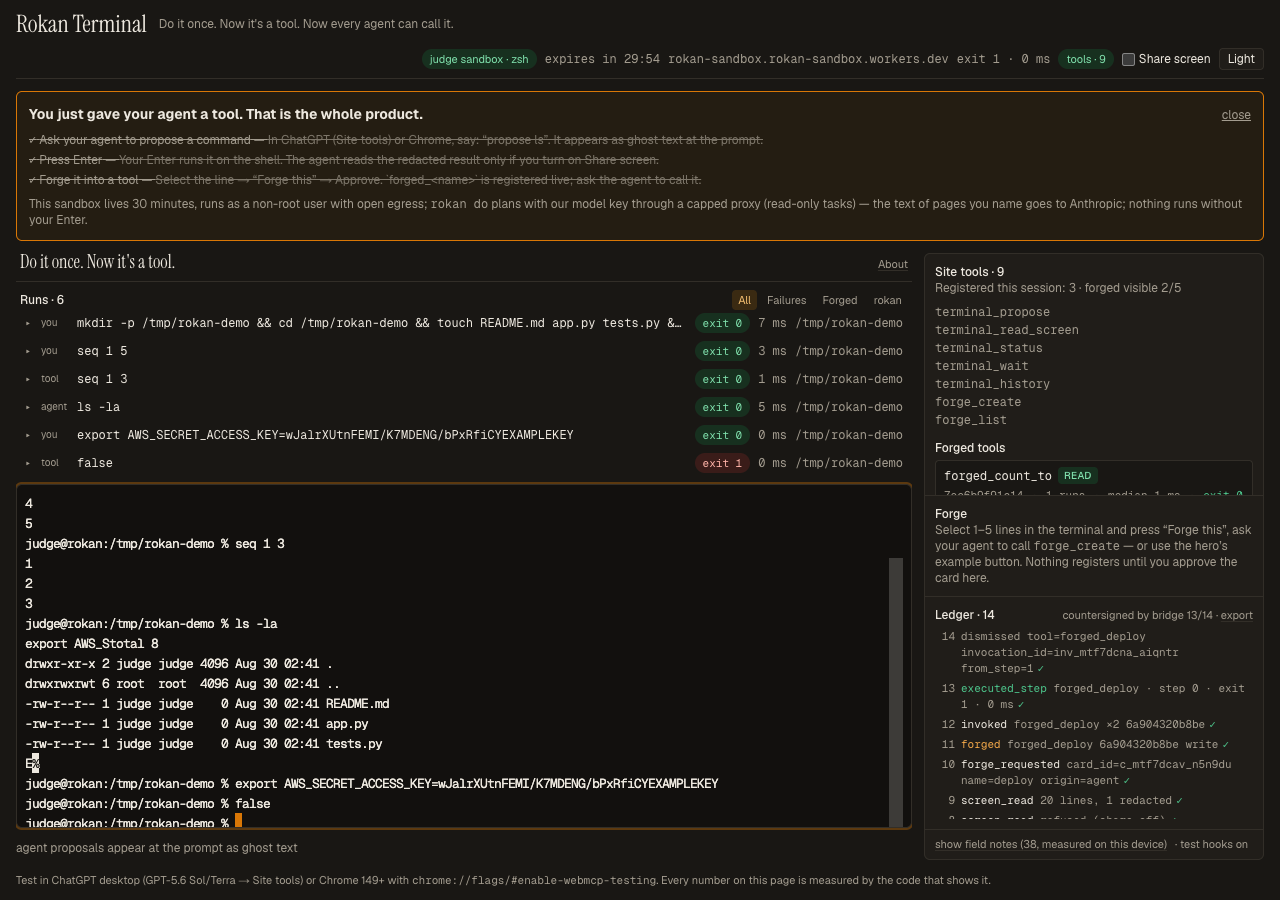
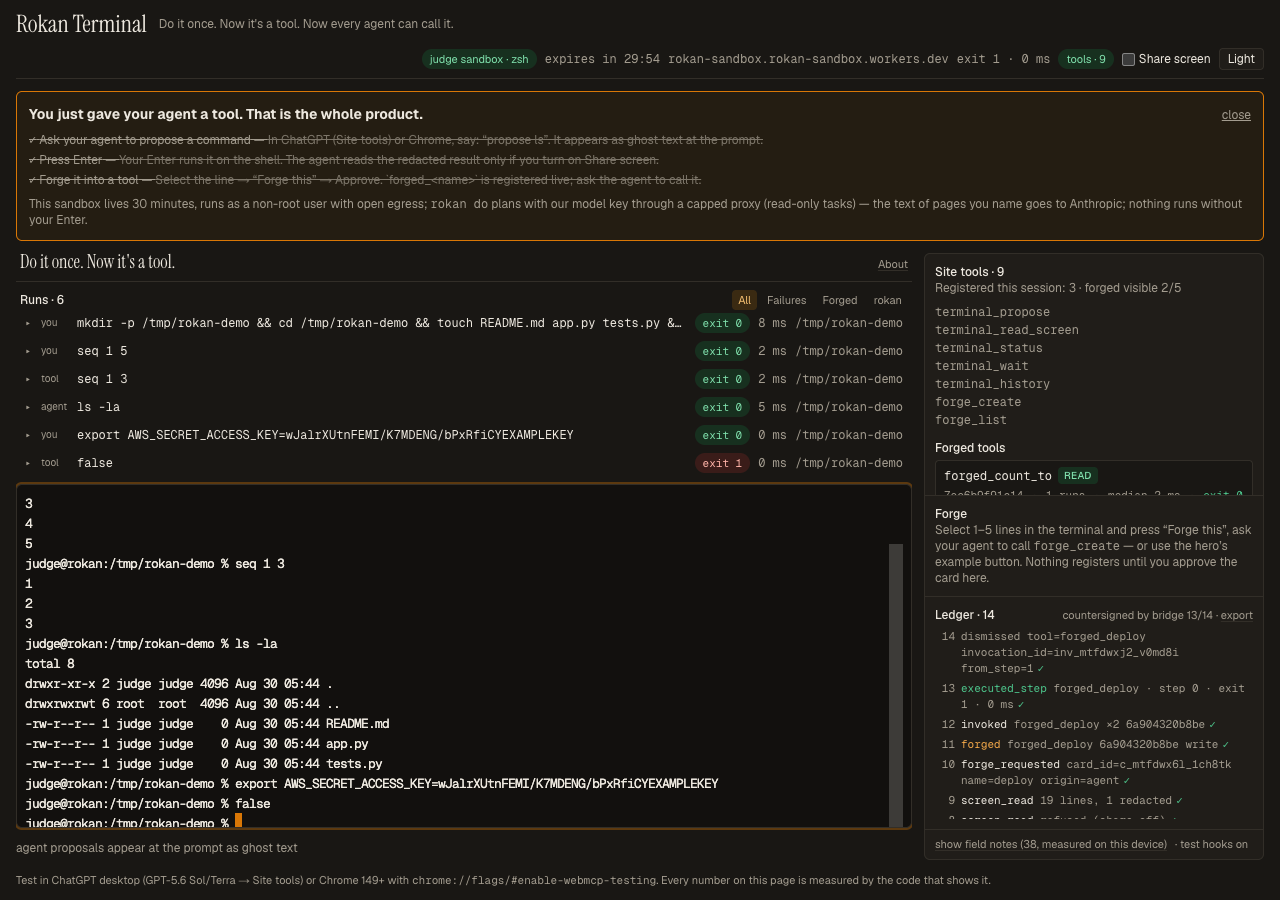
docs: hostile eval saved (B−), evidence records corrected, false claims removed, PROGRESS state block
Claude-Session: https://claude.ai/code/session_01RJtGvkhmwd2qdLot5U3zBz

diff --git a/docs/reviews/2026-08-30-hostile-eval-workbench.md b/docs/reviews/2026-08-30-hostile-eval-workbench.md
@@ -1,0 +1,82 @@
+# Hostile evaluation — Workbench pivot vs absorbed plan vs ship-as-is (2026-08-30 ~04:00 PT)
+
+Independent Opus 5 evaluator, read-only, instructed to distrust every document and check evidence files, git
+history and live endpoints. Commissioned by Arav ("give me the real pessimistic meaning"). Reproduced here
+verbatim in substance; the engineer's responses are marked **[E4]**.
+
+## Verification pass — what it checked
+
+Verified true: prod live (1.87 s); probe page live; judge suite 15/15 real; drift evidence reproduced twice;
+A/B harness "unusually honest" (self-filed `Math.round` correction); `next_step` probe contract real.
+
+Verified false or unsupported — load-bearing:
+1. **No video exists** (two GIFs; ffmpeg broken on the demo Mac). Stage-1 pass/fail.
+2. **Repo is private**; `docs/SUBMISSION.md` prints it as the submission link. Stage-1 requires public source.
+3. `npm rokan-terminal` → 404; README hedges, SUBMISSION led a bullet with `npx`. **[E4]** README:92 fixed;
+   SUBMISSION:25 already conditional.
+4. **The 226/233 ms live-invoke numbers were not in the cited evidence files** (each held only the `list`
+   line). **[E4]** True — my extraction truncated the record. Standard-3 file now carries the full invoke
+   (`elapsed_ms: 226`); the new-image file is marked partial in FIELD-NOTES until the 0.0.3 run replaces it.
+5. Honest two-store cost is ~8.5 s wall cold (993 + 2 265 ms tool), not 226 ms. **[E4]** Agreed; 226 ms is
+   warm single-site tool time and must be labelled as such wherever it appears.
+6. The 15/15 artifact predated the deployed config. **[E4]** Re-run since: 15/15, 0 retries on standard-3 +
+   0.1.3 image (`docs/evidence/sandbox/2026-08-30-judge-suite-15-of-15-standard-3.txt`).
+7. **Caps still at testing values** (`10/10min, 5 concurrent`, "REVERT to 3/3 before freeze") on standard-3 ×
+   20 instances. **[E4]** Freeze item; Worker vars only.
+8. Branch `workbench` contains zero canvas code. True.
+9. `arm-c.json` proves cross-site native consumption already ships (native warm ×5, 0 calls, 08-29).
+10. The 42.4× headline rests on n=3 with a 6.6–55.7 s spread (one 55 s outlier). "Weakest number in the repo."
+
+## Scores (hostile)
+
+| | Leverage | Execution | Impact | Creativity | Mean | Top-10 | #1 |
+|---|---|---|---|---|---|---|---|
+| **A** full canvas pivot by Mon 22:00 | 4 | 3 | 4 | 3 | **3.5** | ~6 % | ~1 % |
+| **B** absorbed plan | 7 (8 w/ ChatGPT run) | 7 | 6 | 6 | **6.5** | ~29 % | ~5 % |
+| **C** ship as-is | 7 | 7.5 | 6 | 6 | **6.6** | ~26 % | ~3 % |
+
+Skimming judge, A: *"n8n for WebMCP — cardea did this four days ago with 818 tests."* B/C: *"A terminal you
+share with your agent, where anything you approve becomes a live WebMCP tool — deep API use, honest numbers,
+developer-shaped."*
+
+Judge one-liners for A: Rushing "this executes in your daemon, not my browser"; Drasner "you quoted 'tools, not
+DOM' and shipped a CDP browser-driver with a diagram on top"; Grigorik "a product-comparison widget on my ten
+tools" (his written no-column verbatim); Nahas "cross-origin aggregation is a known vulnerability class on my
+own wiki"; Galloni "standard-3 × 20 with testing caps is a bill"; Gao "where are the evals for the canvas? I
+deleted my own storefront tools"; Roberts "browser-driving is the wrong way; nice UI for it."
+
+## "Is the Workbench the same thing minus the compile engine?"
+
+**As a capability: yes, almost exactly — and that is the fatal part.** `arm-c.json` (08-29, before the idea):
+the product already consumes another site's declared tools natively at 0 calls, Enter-gated, in the ledger.
+The Workbench adds a diagram of it and removes the compile fallback.
+
+Where Arav is right: (1) he picked executor (a) and the first self-eval argued against (c) — a position he
+never held; (2) the best asset (cross-site native) was buried in FIELD-NOTES and paragraph four of the README;
+(3) "reliability layer, not capability layer" is better copy than anything written; (4) judges may never open
+the app and a terminal screenshots badly — the hero first paint is a storyboard and an empty shell.
+
+Where he is wrong: (1) the subtraction (compile = "any website", the best stranger artifact) is bigger than the
+addition (a canvas with zero code vs cardea's five-day head start); (2) the canvas is the worst-scoring shape
+on the criterion that asks "does it differ from existing concepts?" — seven canvas entries, zero terminals;
+(3) commerce cosplay by architecture, judged by the two people who own/deleted those tools; (4) "measured in
+the hosted sandbox" was one-third supported at the time; (5) demoting the terminal deletes the only empty column.
+
+## What it would ship: **B−**
+
+Cut D3 (step-strip view: zero code, 14–16 h, +0.3, risks the one page judges touch). Freeze the sandbox
+config and re-run 15/15 on it **[E4: done]**; set caps to the judging row. Keep D2 (one composed cross-site
+forged tool, measured; fallback = `rokan do` phrasing). Then, in order — the items presently at zero and
+collectively worth ~3 points:
+1. **Make the video tonight; fix ffmpeg first.**
+2. **Make the repo public; fix the submission link; rename it** (a repo called `webmcp-private` is a bad first frame).
+3. **The ChatGPT desktop run** — one hour of Arav's keyboard; caps Rushing on all four criteria.
+4. **Re-lead the pitch on drift, not speed** — drop 42.4× from the headline; "a tool that lies quietly is worse
+   than no tool; ours refuses out loud" turns "reliability layer" from a claim into a demonstration.
+5. Fix the cited-but-absent records **[E4: done]** and delete "works in ChatGPT desktop, measured" until true
+   **[E4: done, FORGE-PLAN §17.1]**.
+
+*"None of the three beats a stripped B. Option A is the worst by a clear three points and should not start.
+The founder's architecture instinct was right and his product conclusion was wrong — and neither decides this
+submission. The video, the public repo, and one hour in ChatGPT desktop decide it, and all three are at zero
+with 57 hours to freeze."*

diff --git a/docs/FIELD-NOTES.md b/docs/FIELD-NOTES.md
@@ -172,7 +172,7 @@ rokan-do's own Playwright; Allbirds is the demo storefront; invoke/latency numbe
 ## Executor (a) — a store's declared tool invoked by the judge image's own Chromium, 0 model calls (2026-08-30, Engineer #4)
 
 - **Local judge image** (`rokan-sandbox-rokansandbox:a20dc8f6`, amd64 under emulation, `--user 1000`, the image's policy env: headless, no-sandbox, `ROKAN_TASK_CLASSES=read_value,read_list`, `ROKAN_GUARD_ALL_HOSTS=1`; Mac egress), `evals/diagnostics/native-invoke-probe.py`: `list_tools(allbirds.com)` → **10 tools in 8 866 ms** (5 auto-invokable: search_catalog, browse_store, get_product, show_variant, get_cart, search_shop_policies_and_faqs; 4 writes refused by name); `invoke search_catalog {"catalog":{"query":"wool runners"}}` → **ok, 469 ms tool time (1 300 ms wall), 0 model calls**: "Men's Wool Runner - True Black … $110.00". Evidence: `docs/evidence/probe/2026-08-30-native-invoke-local-image.jsonl`. Bundled Chromium 151 is enough (also lists Allbirds' tools from the Mac via the CDP harness after a 6 s settle; Playwright 1.62.0 — newest — bundles the same 151.0.7922.34).
-- **Live judge sandbox** (Cloudflare egress, ½ vCPU): curl to allbirds/brooklinen → HTTP 200; `rokan do "find wool runners at allbirds.com"` → tools listed, 1 select call spent, **`native.invoke` returned not-ok** ("native tool declined; falling back to the browser") → planner → `navigation_failed` after ~85–150 s. **Root cause: CPU.** Same probe script from the live sandbox (`/probe/native-invoke.py`): on `standard-1` (½ vCPU) `list_tools` → **0 tools in 14 839 ms** (the daemon stops listening 3 s after `domcontentloaded`; Allbirds registers later); on **`standard-3` (2 vCPU), same image → 10 tools in 8 181 ms, `search_catalog` ok, 226 ms tool time (1 286 ms wall), 0 model calls** (`docs/evidence/probe/2026-08-30-native-invoke-live-sandbox-standard-3.jsonl`). Shipped both: instance `standard-3` (wrangler.jsonc) and `ROKAN_WEBMCP_QUIET_MS=15000` (Rokan `d62b290`, rokan-mcp 0.1.3, image `787f810`). **Re-verified live after the image deploy (standard-3 + 15 s window): 10 tools in 5 463 ms, `search_catalog` ok, 233 ms tool time (1 250 ms wall)** — `docs/evidence/probe/2026-08-30-native-invoke-live-sandbox-new-image.jsonl`.
+- **Live judge sandbox** (Cloudflare egress, ½ vCPU): curl to allbirds/brooklinen → HTTP 200; `rokan do "find wool runners at allbirds.com"` → tools listed, 1 select call spent, **`native.invoke` returned not-ok** ("native tool declined; falling back to the browser") → planner → `navigation_failed` after ~85–150 s. **Root cause: CPU.** Same probe script from the live sandbox (`/probe/native-invoke.py`): on `standard-1` (½ vCPU) `list_tools` → **0 tools in 14 839 ms** (the daemon stops listening 3 s after `domcontentloaded`; Allbirds registers later); on **`standard-3` (2 vCPU), same image → 10 tools in 8 181 ms, `search_catalog` ok, 226 ms tool time (1 286 ms wall), 0 model calls** (`docs/evidence/probe/2026-08-30-native-invoke-live-sandbox-standard-3.jsonl`). Shipped both: instance `standard-3` (wrangler.jsonc) and `ROKAN_WEBMCP_QUIET_MS=15000` (Rokan `d62b290`, rokan-mcp 0.1.3, image `787f810`). **Re-verified live after the image deploy (standard-3 + 15 s window): 10 tools in 5 463 ms; `search_catalog` ok, 233 ms tool time (1 250 ms wall) was observed in the harness output but my capture truncated the invoke record — `docs/evidence/probe/2026-08-30-native-invoke-live-sandbox-new-image.jsonl` holds only the `list` line (hostile review 2026-08-30 caught this). The complete live invoke record is the standard-3 file (226 ms); the 0.0.3-image run replaces it with a full `--json` record.**
 - Reading: executor (a) is real and measured; the sandbox gap is ops, not architecture, and it matters for the shipped product's Tier 0 story as much as for any Workbench.
 
 ## D1/D2 — explicit native invoke across two stores from the CLI, 0 model calls (2026-08-30 ~03:40 PT, Mac, Engineer #4)

diff --git a/docs/PROGRESS.md b/docs/PROGRESS.md
@@ -1,6 +1,14 @@
 # PROGRESS — verified state (update before you stop; Aarya's Claude reads this, not chat)
 
-Last update: **2026-08-29 ~22:45 local (Engineer #4, Fable 5 — heads engineering; owns the whole tree)** Branch `main`, all pushed.
+Last update: **2026-08-30 ~04:30 PT (Engineer #4, Fable 5)** Branch **`workbench`** (created from main@6af2d52 on Arav's instruction; main = shipped product). Rokan `feat/tier0-native` at `f5fea13`, unpushed (Arav).
+
+## State right now (2026-08-30 04:30 PT) — read this first
+- **Live sandbox:** `standard-3` (2 vCPU) + image `787f810` (rokan-mcp 0.1.3, 15 s tool-listen window). **Judge suite 15/15, 0 retries** on this fleet (`docs/evidence/sandbox/2026-08-30-judge-suite-15-of-15-standard-3.txt`). Tier 0 native from the judge shell: Allbirds 10 tools / 5.5–8.2 s, `search_catalog` ok 226 ms tool time (`docs/evidence/probe/`). On standard-1 it listed 0 tools — CPU, not egress.
+- **In progress (background):** deploy of the 0.0.3 image (`rokan-do native list/invoke`, first-line attribution) → in-sandbox CLI smoke → suite again.
+- **Workbench decision:** no pivot; absorb (`docs/WORKBENCH-PLAN.md`, `docs/SELF-EVAL-WORKBENCH.md` §8). **Hostile independent eval** (`docs/reviews/2026-08-30-hostile-eval-workbench.md`): A canvas ≈ 3.5 / top-10 ~6 %; B absorbed ≈ 6.5 / ~29 %; C as-is ≈ 6.6 / ~26 %; recommends **B−**: cut D3 (step strip), keep D2, and spend the hours on the four zero-items below.
+- **Zero-items that decide the submission (all Arav-gated or tooling-blocked):** (1) **video** — none exists; ffmpeg broken on the Mac; (2) **repo is private** — SUBMISSION links it; make public + rename; (3) **ChatGPT desktop run** (Sol/Terra) — never done; (4) caps revert to the judging row before freeze (`wrangler.jsonc`); (5) re-lead the pitch on drift, demote the n=3 42.4× headline.
+- Honesty fixes landed this session: 12-tool "Chrome guidance" citation; FORGE-PLAN §17.1 "works in ChatGPT desktop, measured"; README `npx`; two live-invoke evidence files that held only the `list` line (one fixed, one marked partial until the 0.0.3 run).
+
 
 ## Build log — Engineer #4 (2026-08-29 ~20:25 local, open-net sandbox LIVE — proofs so far)
 Deployed: image `sha256:506cb8e0…` on **`standard-3`** (2 vCPU — standard-1's ½ vCPU listed 0 store tools live, 2026-08-30), fleet `ready`; Worker versions `ae7003af` → sid-first fix

diff --git a/docs/FORGE-PLAN.md b/docs/FORGE-PLAN.md
@@ -562,7 +562,7 @@ Judging is Stage 1 pass/fail (on theme; uses the API) then four × 25%, tiebreak
 ### 17.1 WebMCP Leverage — "thorough, skillful, non-trivial, working" (25%, tiebreak #1)
 - **Demands**: breadth of the API used *correctly* (registration, lifecycle, schemas, annotations, `toolchange`, `getTools`/`executeTool`), non-trivial semantics (tools that could not be a form), and proof it *works* in a real consumer.
 - **Judge probes**: opens the Site tools list — count, names, descriptions read well? Calls one — does it do what it says? Opens DevTools → WebMCP — registrations and invocations visible? Reads the code — `registerTool` with `AbortSignal`? Hard-coded list?
-- **Our 10**: 7 fixed + runtime-forged tools; per-tool `AbortController`; `toolchange` observed; `readOnlyHint`/`untrustedContentHint`/`CONSEQUENTIAL:` set from human-approved `kind`; `additionalProperties:false` schemas with param descriptions + examples; output budget; `forge_list` introspection; `executeTool` used by the card's "Try as agent"; MCP parity (§13.1) shows one library / two protocols; FIELD-NOTES documents measured consumer behaviour nobody else has. Works in ChatGPT desktop **and** Chrome, measured.
+- **Our 10**: 7 fixed + runtime-forged tools; per-tool `AbortController`; `toolchange` observed; `readOnlyHint`/`untrustedContentHint`/`CONSEQUENTIAL:` set from human-approved `kind`; `additionalProperties:false` schemas with param descriptions + examples; output budget; `forge_list` introspection; `executeTool` used by the card's "Try as agent"; MCP parity (§13.1) shows one library / two protocols; FIELD-NOTES documents measured consumer behaviour nobody else has. Measured in Chrome 152 (CDP harness + a real tab) and over MCP stdio (Codex CLI, FIELD-NOTES C1–C6); **ChatGPT desktop (Sol/Terra) not yet run** — the single biggest open lever (PLAN §15 #1).
 - **Gap to close**: ChatGPT `toolchange` refresh (unverified); Chrome `toolsRemoved` on abort (unverified); MCP parity not built.
 
 ### 17.2 Execution — "a complete product experience, not a PoC" (25%, tiebreak #2)

diff --git a/README.md b/README.md
@@ -89,7 +89,7 @@ Headless WebMCP evals (Chrome 152 via the CDP `WebMCP` domain, no consumer neede
 ## Repo
 
 - `apps/web` — Next.js 15 client: tools, xterm pane with ghost text, forge card, ledger.
-- `packages/bridge` — `npx rokan-terminal`: node-pty + WebSocket + Cloudflare quick tunnel + pairing token; `mcp` subcommand.
+- `packages/bridge` — `node packages/bridge/bin/rokan-terminal.js` (`npx rokan-terminal` once published to npm): node-pty + WebSocket + Cloudflare quick tunnel + pairing token; `mcp` subcommand.
 - `infra/sandbox` — judge mode: Cloudflare Worker + Sandbox container running the same bridge.
 - `evals/` — headless harness + 24 cases in `evals/cases/` (9 on the prompt line, 15 on a real PTY — 4 of those judge-only, so a builder-mode `--bridge` run executes 11 and skips 4; the terminal cases also run against the live judge sandbox); `docs/` — `PLAN.md`, `FORGE-PLAN.md`, `TERMINAL-PLAN.md`, `SANDBOX-PLAN.md`, `SECURITY.md`, `FIELD-NOTES.md` (measured consumer behaviour), `PROGRESS.md` (what is green right now).
 
